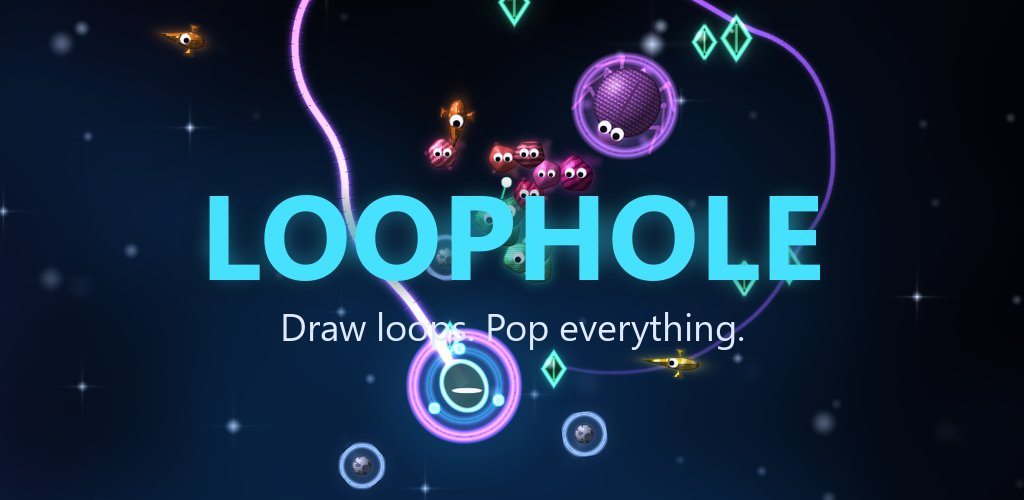
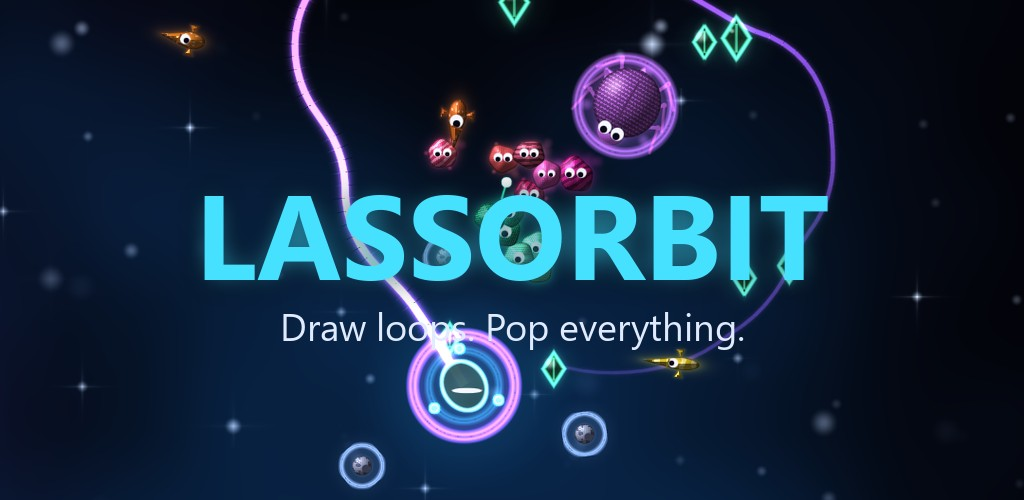
Lassorbit: renamed site, privacy policy and terms for online play, chat, Glimmer and the Orbit Pass

Changed region(s): [[0.1875, 0.36, 0.8125, 0.57]]

diff --git a/privacy.html b/privacy.html
@@ -3,33 +3,46 @@
 <head>
 <meta charset="utf-8">
 <meta name="viewport" content="width=device-width, initial-scale=1">
-<title>Privacy Policy - Loophole</title>
+<title>Privacy Policy - Lassorbit</title>
 <link rel="icon" href="img/icon.png">
 <link rel="stylesheet" href="style.css">
 </head>
 <body>
 <div class="wrap">
   <header class="top">
-    <a class="brand" href="./"><img src="img/icon.png" alt="">Loophole Games</a>
-    <nav><a href="./">Home</a><a href="mailto:loopholegames.dev@gmail.com">Contact</a></nav>
+    <a class="brand" href="./"><img src="img/icon.png" alt="">Lassorbit Games</a>
+    <nav><a href="./">Home</a><a href="privacy.html">Privacy</a><a href="terms.html">Terms</a><a href="mailto:loopholegames.dev@gmail.com">Contact</a></nav>
   </header>
 
   <article class="doc">
-    <h1>Loophole Privacy Policy</h1>
-    <p><em>Last updated: 11 October 2026</em></p>
-    <p>Loophole ("the game") is made by Loophole Games ("we"). This policy explains what information the game uses and why.</p>
-
+    <h1>Lassorbit Privacy Policy</h1>
+    <p><em>Last updated: 24 October 2026</em></p>
+    <p>Lassorbit ("the game") is made by Lassorbit Games ("we"). This policy explains what information the game uses and why.</p>
     <h2>The short version</h2>
     <ul>
-      <li>We don't ask for your name, email or any account, and we don't run servers that collect your data.</li>
-      <li>Your progress (scores, unlocks, settings) is saved only on your device.</li>
-      <li>The mobile version shows <strong>optional</strong> rewarded ads through <strong>Google AdMob</strong>. Ads appear only when you choose to watch one for a bonus. Google may collect device information to show and measure those ads, as described below.</li>
-      <li>Purchases (the Supporter Pack) are handled entirely by <strong>Google Play</strong>. We never see your payment details.</li>
+      <li>We don't ask for your name, email or any account. Your progress is saved on your device.</li>
+      <li>In multiplayer, your game talks directly to the other players' games. They receive your player name, your moves and your chat messages, and their devices can see your IP address, as with any direct connection.</li>
+      <li>To help players find each other online, the game lists open lobbies on a matchmaking service. A listing is removed when the lobby closes.</li>
+      <li>We don't store chat messages, and we don't keep logs of who played with whom.</li>
+      <li>The mobile version shows <strong>optional</strong> rewarded ads through <strong>Google AdMob</strong>, only when you choose to watch one. Google may collect device information to show and measure those ads, as described below.</li>
+      <li>Purchases (Glimmer packs and the Supporter Pack) are handled entirely by <strong>Google Play</strong>. We never see your payment details.</li>
     </ul>
-
     <h2>Information stored on your device</h2>
-    <p>The game saves your progress, settings, unlocked items, any redeemed codes and a history of your recent runs (scores, builds and how each run went, for your own stats) locally on your device. The run history leaves your device only if you choose to share it from the Stats screen; otherwise this data never leaves your device, and we can't access it. Uninstalling the game deletes it.</p>
-
+    <p>The game saves your progress, settings, unlocked items, redeemed codes, the players you have blocked, and a history of your recent runs (scores, builds and how each run went) on your device. The run history leaves your device only if you choose to share it from the Stats screen. Uninstalling the game deletes all of this.</p>
+    <h2>Multiplayer</h2>
+    <p><strong>Local play</strong> (same screen, or the same Wi-Fi network) never leaves your home network.</p>
+    <p><strong>Online play</strong> is peer-to-peer: the players in a match connect directly to each other. During a match, the following is exchanged with the other players' devices:</p>
+    <ul>
+      <li>your player name, chosen character and cosmetic choices</li>
+      <li>your in-game inputs (steering, upgrade choices, abilities)</li>
+      <li>chat messages you send</li>
+      <li>your IP address and network port, which every direct connection reveals to the other side</li>
+    </ul>
+    <p>The game signs in to the matchmaking service anonymously: it gets a random ID, with no name, email or other personal details attached. To find matches, the game uses a matchmaking listing hosted on Google Firebase (provided by Google LLC). While you host or look for a lobby, the listing holds the lobby's name, player count, game mode, a rough region (such as "Oceania", taken from your device's time zone) and the network address other players need to connect. Listings are deleted when the lobby closes and expire automatically after an hour. Google processes this data on our behalf; see <a href="https://firebase.google.com/support/privacy.">https://firebase.google.com/support/privacy.</a></p>
+    <p>To work out how to connect through home routers, the game contacts Google's public STUN servers, which see your IP address only to tell the game what it looks like from the internet.</p>
+    <p><strong>Chat</strong> messages are filtered on every device for offensive words and links. Messages are sent only to the players in your match and aren't stored by us.</p>
+    <p><strong>Reporting.</strong> If you report a player, your email app opens a message to us containing their player name and their recent chat messages. We use reports only to deal with abuse, and delete them once dealt with.</p>
+    <p><strong>Fair play.</strong> To keep matches fair, every player's game checks that the others' moves are possible and that everyone's game stays in sync. This happens during the match and nothing is stored.</p>
     <h2>Advertising (mobile version)</h2>
     <p>When you choose to watch a rewarded ad, the game uses the Google Mobile Ads SDK (AdMob), provided by Google LLC. To serve, limit and measure ads and to prevent fraud, Google may collect and process:</p>
     <ul>
@@ -38,28 +51,25 @@
       <li>approximate location derived from your IP address</li>
       <li>ad interactions and diagnostic data</li>
     </ul>
-    <p>In the European Economic Area, the UK and Switzerland, the game asks for your consent with Google's consent form before ads are personalised. You can change your choice at any time under <strong>Supporter Pack &gt; Ad privacy options</strong>.</p>
+    <p>In the European Economic Area, the UK and Switzerland, the game asks for your consent with Google's consent form before ads are personalised. You can change your choice at any time under <strong>Shop &gt; Supporter Pack &gt; Ad privacy options</strong>.</p>
     <p>You can also reset or delete your advertising ID, or opt out of personalised ads, in your device's settings (on Android: Settings &gt; Google &gt; Ads).</p>
-    <p>Learn more about how Google uses data: <a href="https://policies.google.com/technologies/partner-sites">policies.google.com/technologies/partner-sites</a></p>
+    <p>Learn more about how Google uses data: <a href="https://policies.google.com/technologies/partner-sites">https://policies.google.com/technologies/partner-sites</a></p>
     <p>Buying the Supporter Pack turns ads off completely.</p>
-
     <h2>Purchases</h2>
     <p>In-app purchases are processed by Google Play under Google's terms and privacy policy. We receive only a confirmation that a purchase was made, so the game can unlock it.</p>
-
     <h2>The PC version</h2>
-    <p>The PC version has no ads and collects no data.</p>
-
+    <p>The PC version has no ads. Multiplayer on PC works as described above.</p>
     <h2>Children</h2>
     <p>The game is not directed at children under 13. We don't knowingly collect personal information from children.</p>
-
+    <h2>Deleting your data</h2>
+    <p>Everything the game stores is on your device: uninstalling deletes it. Lobby listings delete themselves. To ask about a report or anything else, email us.</p>
     <h2>Changes</h2>
-    <p>If the game changes in a way that affects your privacy (for example, adding online play), we will update this policy and the date above.</p>
-
+    <p>If the game changes in a way that affects your privacy, we will update this policy and the date above.</p>
     <h2>Contact</h2>
-    <p>Questions? Email <a href="mailto:loopholegames.dev@gmail.com">loopholegames.dev@gmail.com</a>.</p>
+    <p>Questions? Email <strong><a href="mailto:loopholegames.dev@gmail.com">loopholegames.dev@gmail.com</a></strong>.</p>
   </article>
 
-  <footer><div>&copy; 2026 Loophole Games</div></footer>
+  <footer><div>&copy; 2026 Lassorbit Games</div></footer>
 </div>
 </body>
 </html>

diff --git a/terms.html b/terms.html
@@ -1,0 +1,55 @@
+<!doctype html>
+<html lang="en">
+<head>
+<meta charset="utf-8">
+<meta name="viewport" content="width=device-width, initial-scale=1">
+<title>Terms of Use - Lassorbit</title>
+<link rel="icon" href="img/icon.png">
+<link rel="stylesheet" href="style.css">
+</head>
+<body>
+<div class="wrap">
+  <header class="top">
+    <a class="brand" href="./"><img src="img/icon.png" alt="">Lassorbit Games</a>
+    <nav><a href="./">Home</a><a href="privacy.html">Privacy</a><a href="terms.html">Terms</a><a href="mailto:loopholegames.dev@gmail.com">Contact</a></nav>
+  </header>
+
+  <article class="doc">
+    <h1>Lassorbit Terms of Use</h1>
+    <p><em>Last updated: 15 October 2026</em></p>
+    <p>These terms cover playing Lassorbit ("the game"), made by Lassorbit Games ("we"), and in particular its multiplayer and chat. By using multiplayer or chat you agree to them.</p>
+    <h2>Playing with others</h2>
+    <p>Lassorbit lets you play with people on the same screen, on the same Wi-Fi network, and online. Online matches connect players directly to each other.</p>
+    <h2>Chat rules</h2>
+    <p>Chat is for talking with the people you're playing with. The following are not allowed, in chat or in player names:</p>
+    <ul>
+      <li>harassment, bullying or threats of any kind</li>
+      <li>hate speech, or attacks on anyone's race, ethnicity, nationality, religion, gender, sexuality or disability</li>
+      <li>sexual content</li>
+      <li>encouraging self-harm or violence</li>
+      <li>spam, advertising, and links of any kind</li>
+      <li>asking for or sharing personal information (real names, addresses, phone numbers, social media accounts), whether yours or someone else's</li>
+      <li>scams, including offers of free coins, items or accounts</li>
+      <li>pretending to be Lassorbit Games or a member of our team</li>
+    </ul>
+    <p>Chat is filtered automatically for offensive words and links, but the filter can't catch everything.</p>
+    <h2>Blocking and reporting</h2>
+    <p>Open <strong>PLAYERS</strong> in the chat to block a player (you will no longer see their messages) or report them. A report opens an email to us with their player name and recent messages. We review reports and act on them, which can include removing a player's access to online play.</p>
+    <h2>Fair play</h2>
+    <p>Don't cheat: no modified game files, tools that change the game, or exploits that give an unfair advantage or spoil other players' matches. The game checks matches for impossible moves and removes players whose game doesn't match everyone else's.</p>
+    <h2>Purchases and ads</h2>
+    <p>The Supporter Pack is a one-time purchase handled by Google Play under Google's terms. It changes cosmetics and turns off ads; it doesn't affect gameplay. Rewarded ads are always optional.</p>
+    <h2>Availability</h2>
+    <p>Online play depends on players being able to connect to each other and on third-party services. We can't guarantee it will always be available, and we may change or end online features.</p>
+    <h2>Privacy</h2>
+    <p>How the game handles information is described in the Privacy Policy: <a href="https://loopholegamesdev.github.io/privacy.html">https://loopholegamesdev.github.io/privacy.html</a></p>
+    <h2>Changes</h2>
+    <p>We may update these terms. The date above shows the latest version.</p>
+    <h2>Contact</h2>
+    <p>Email <strong><a href="mailto:loopholegames.dev@gmail.com">loopholegames.dev@gmail.com</a></strong>.</p>
+  </article>
+
+  <footer><div>&copy; 2026 Lassorbit Games</div></footer>
+</div>
+</body>
+</html>

diff --git a/index.html b/index.html
@@ -3,20 +3,20 @@
 <head>
 <meta charset="utf-8">
 <meta name="viewport" content="width=device-width, initial-scale=1">
-<title>Loophole: Draw loops. Pop everything.</title>
-<meta name="description" content="Loophole is a one-thumb space roguelite by Loophole Games. Cross your own trail to close a loop, and everything inside pops.">
+<title>Lassorbit: Draw loops. Pop everything.</title>
+<meta name="description" content="Lassorbit is a one-thumb space roguelite by Lassorbit Games. Cross your own trail to close a loop, and everything inside pops.">
 <link rel="icon" href="img/icon.png">
 <link rel="stylesheet" href="style.css">
 </head>
 <body>
 <div class="wrap">
   <header class="top">
-    <a class="brand" href="./"><img src="img/icon.png" alt="">Loophole Games</a>
-    <nav><a href="#about">About</a><a href="privacy.html">Privacy</a><a href="mailto:loopholegames.dev@gmail.com">Contact</a></nav>
+    <a class="brand" href="./"><img src="img/icon.png" alt="">Lassorbit Games</a>
+    <nav><a href="#about">About</a><a href="privacy.html">Privacy</a><a href="terms.html">Terms</a><a href="mailto:loopholegames.dev@gmail.com">Contact</a></nav>
   </header>
 
   <section class="hero">
-    <h1>LOOPHOLE</h1>
+    <h1>LASSORBIT</h1>
     <p class="tag">Draw loops. Pop everything.</p>
     <span class="badge soon">Coming soon to Google Play</span>
   </section>
@@ -29,14 +29,14 @@
   </section>
 
   <section id="about" class="features">
-    <div class="card"><h3>One thumb</h3><p>Your comet follows your finger and leaves a glowing trail. Cross it to close a loop, and every creature inside pops.</p></div>
-    <div class="card"><h3>Build something ridiculous</h3><p>Ten weapons to find, level and evolve, from beams and discs to a needle that folds time itself.</p></div>
-    <div class="card"><h3>Living worlds</h3><p>Land on planets grown from their own climates, and fight creatures that evolve to resist whatever kills them most.</p></div>
-    <div class="card"><h3>Outlast the Deadline</h3><p>At fifteen minutes it comes for you. Only the strangest builds can bring it down.</p></div>
+    <div class="card"><h3>One thumb</h3><p>Your comet follows your finger and leaves a trail. Cross it to close a loop, and every creature inside pops.</p></div>
+    <div class="card"><h3>Weapons and builds</h3><p>Ten weapons to find, level up and evolve, alongside upgrades, perks, relics and a signature ability for every character.</p></div>
+    <div class="card"><h3>Generated worlds</h3><p>Land on planets shaped by their climate. The creatures in each run adapt to whatever has been killing them.</p></div>
+    <div class="card"><h3>The Deadline</h3><p>At fifteen minutes the Deadline arrives. Surviving it takes a strong build and all three Paradox Fragments.</p></div>
   </section>
 
   <footer>
-    <div>&copy; 2026 Loophole Games</div>
+    <div>&copy; 2026 Lassorbit Games</div>
     <div><a href="privacy.html">Privacy Policy</a><a href="mailto:loopholegames.dev@gmail.com">loopholegames.dev@gmail.com</a></div>
   </footer>
 </div>
